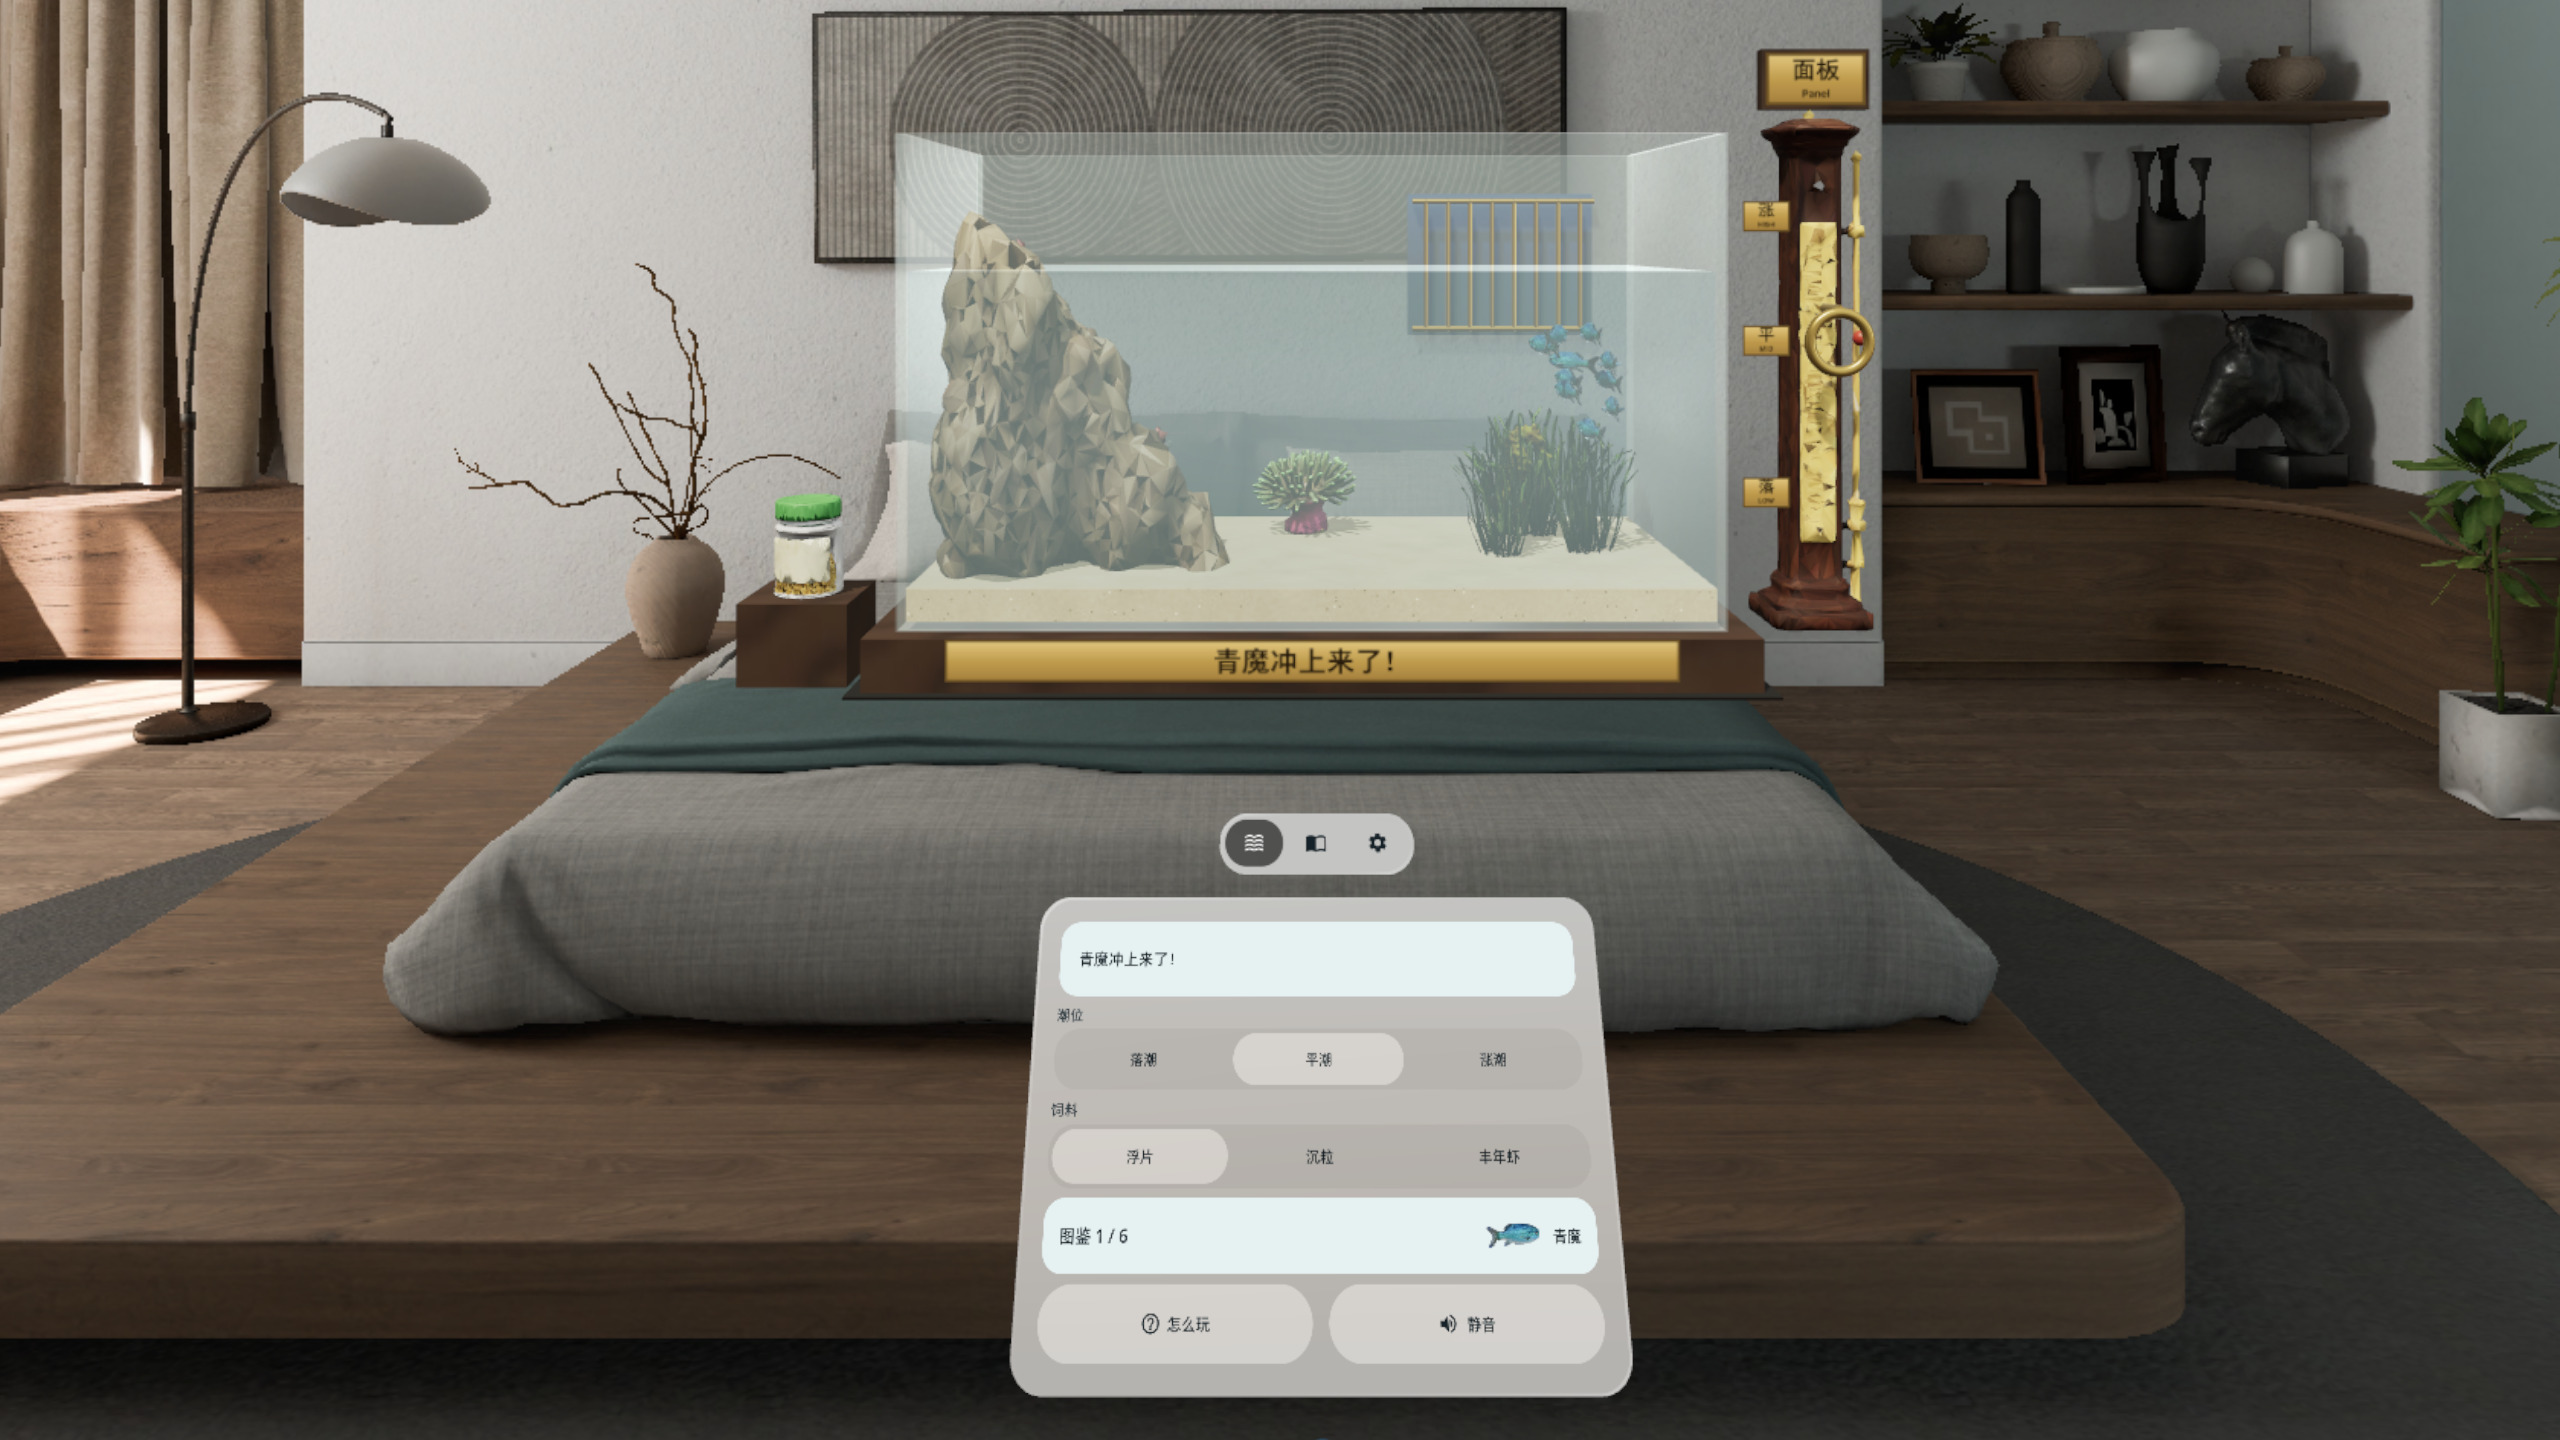
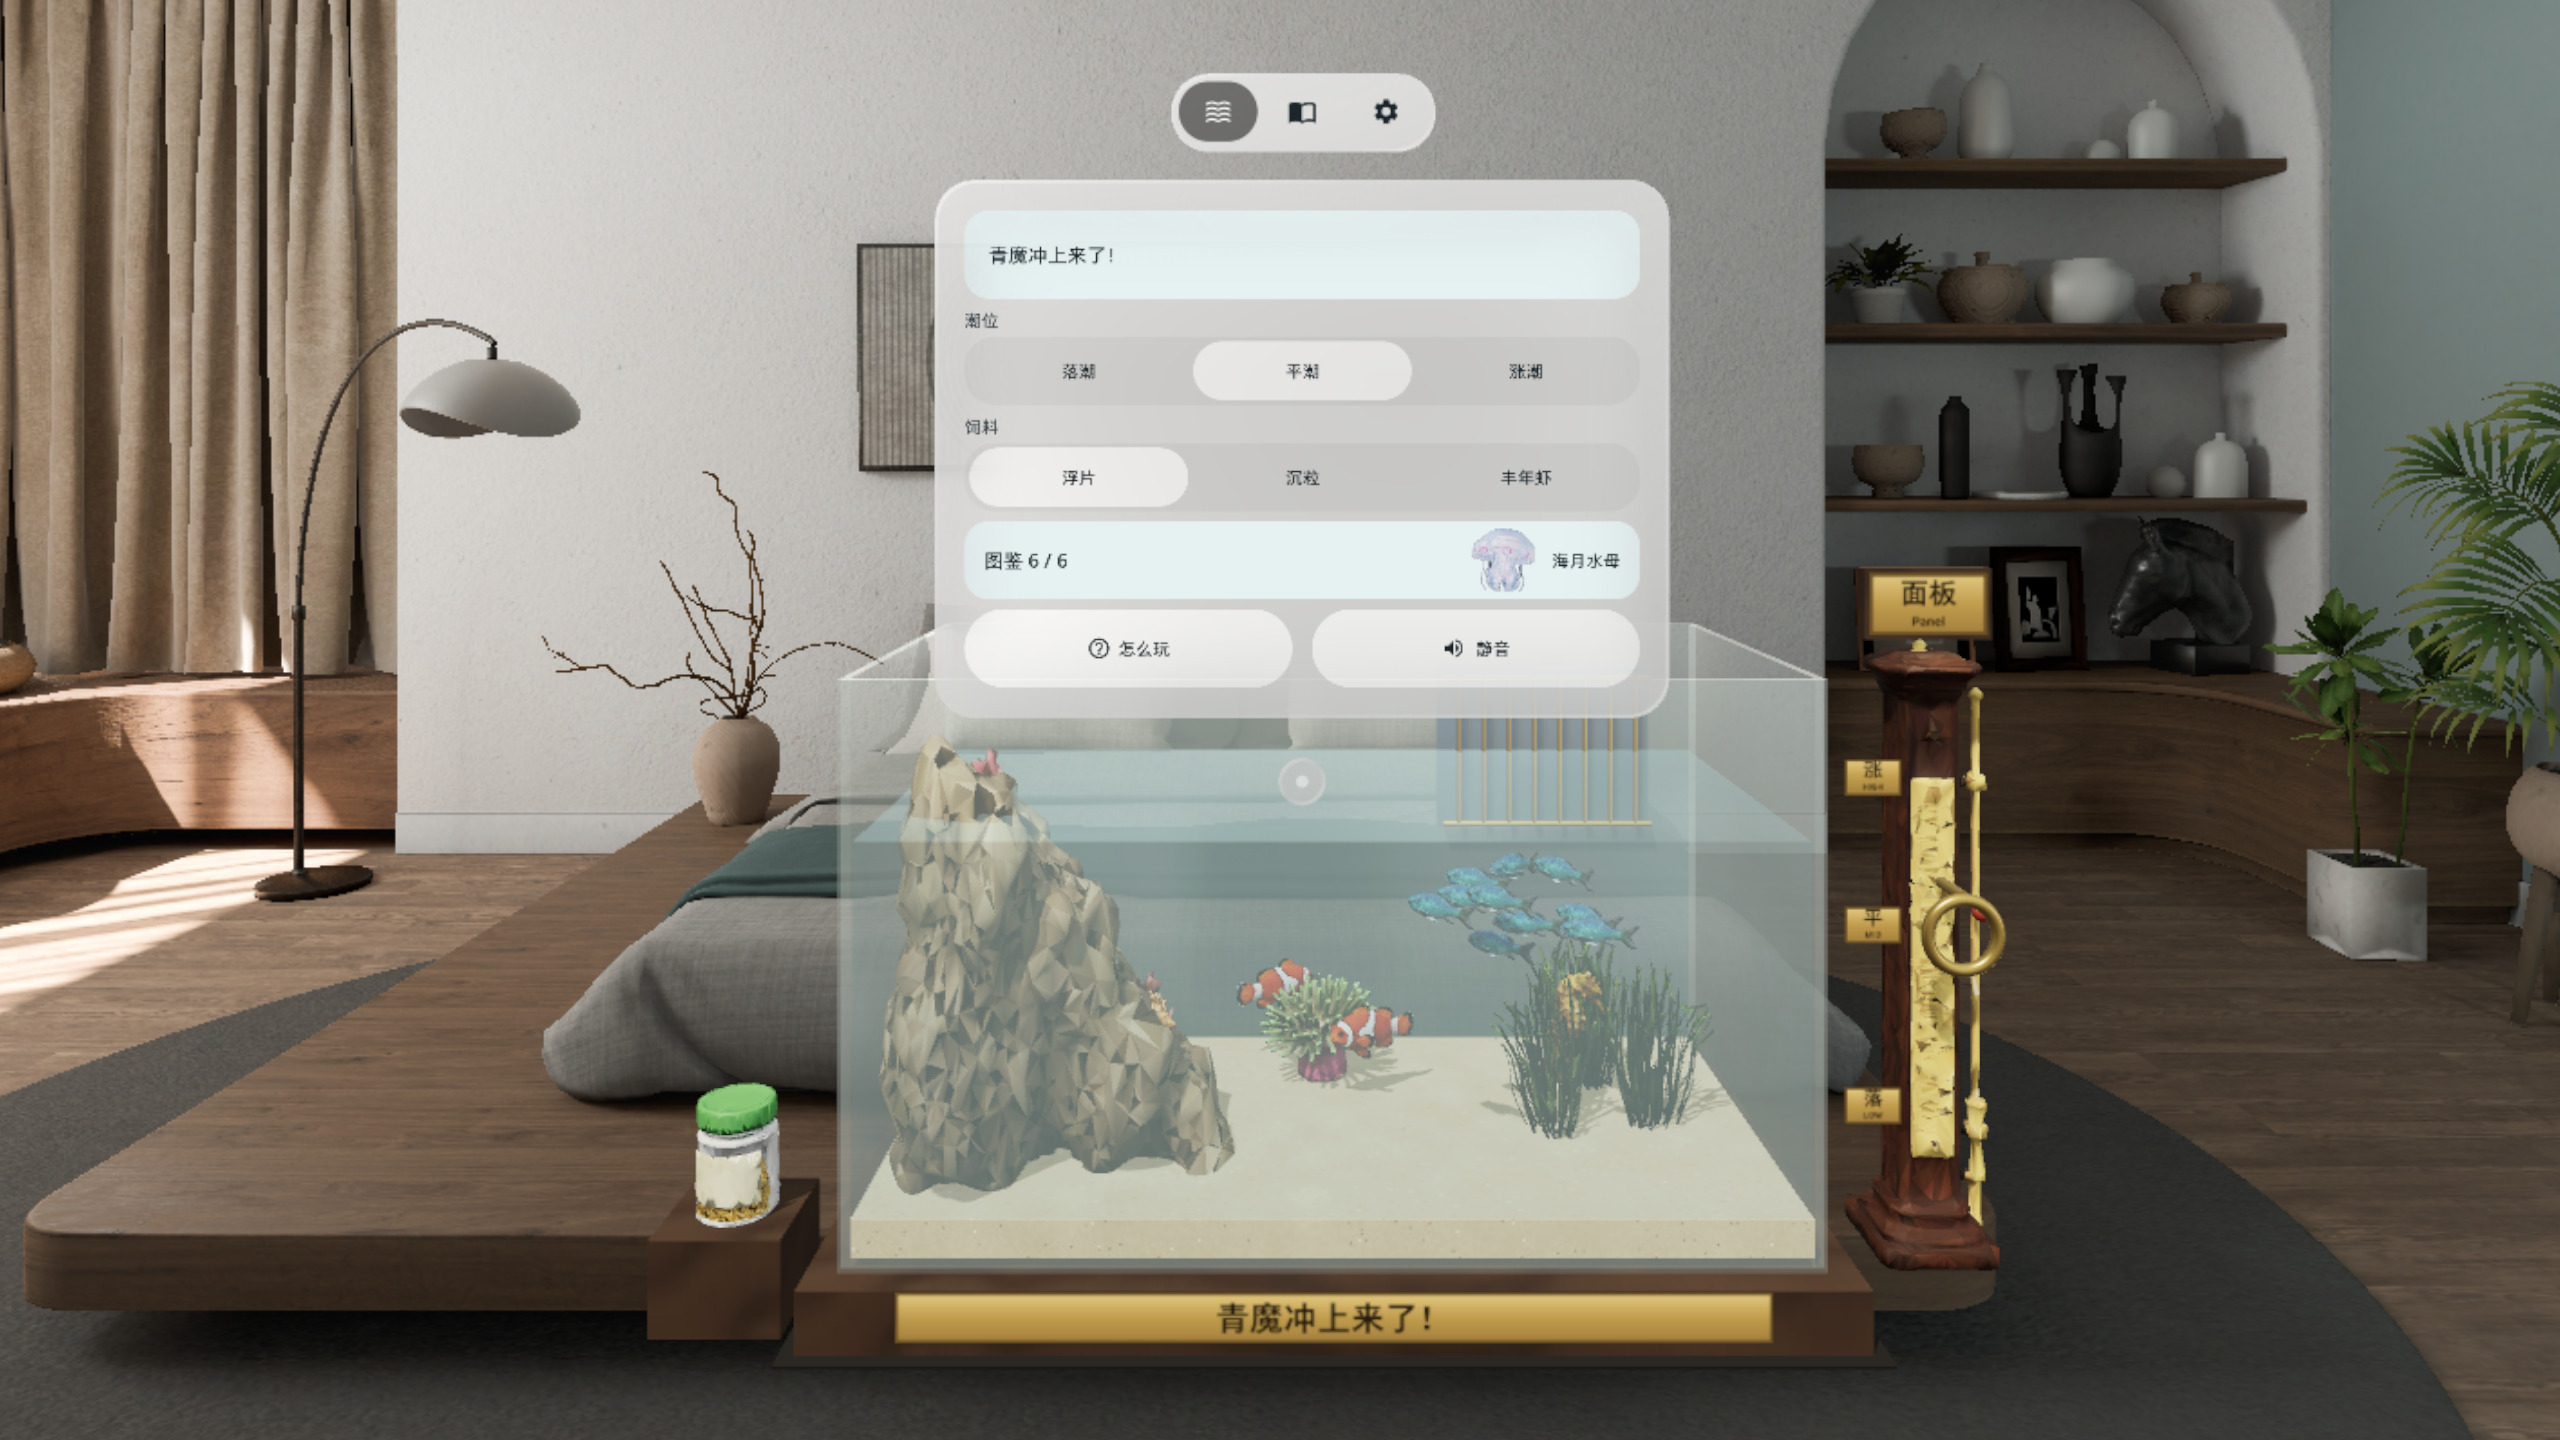
Docs v0.1.4: bilingual README, known issues, v0.1.4 screenshots and posters

diff --git a/README.md b/README.md
@@ -6,75 +6,76 @@
 
 ## 中文
 
-桌上一只海水缸，v0.1.3 起在 PICO OS 6 的 Full Space（混合现实 Stage）里摆在你正前方、控制窗下面。碰到饲料罐按 grip 或扳机拿起来（远处用手柄射线或眼手指着按一下也行），松手它还跟着你的手；移到水面上翻手腕就倒饲料，再按一次放回罐墩，鱼群追着抢；也可以直接点沙底撒一小撮。拖黄铜潮位手柄（落 / 平 / 涨三档吸附）或点刻度牌换潮位：落潮礁石露出水面，涨满潮外海的闸门打开。换着饲料和潮位，把缸里藏着的 6 种海洋生物一个个引出来，图鉴记下见过的。
+一只海水缸摆在你正前方（PICO OS 6 Full Space，混合现实 Stage）：缸里有礁石、海葵、海草和一群青魔，缸边立着黄铜潮位柱，罐墩上放着饲料罐，控制窗在缸的上方。手或手柄碰到饲料罐按一下 grip / 扳机拿起来，松手也还在手里（远处用手柄射线或眼手指着按一下也行）；移到水面上翻手腕就倒饲料，转得越多撒得越多，再按一下放回罐墩；也可以直接点沙底撒一小撮。拖黄铜潮位手柄（落 / 平 / 涨三档吸附）或点刻度牌换潮位：落潮礁石露出水面，涨满潮外海的闸门打开。换着饲料和潮位，把缸里藏着的 6 种海洋生物一个个引出来，图鉴记下见过的。
 
-- 体积 1.19 × 0.78 × 0.64 m（缸 0.84 m 宽）+ 缸正下方的控制窗（600 × 440 dp，原生 TabBar：水缸 / 图鉴 / 设置）
+- 缸心离眼 0.88 m、缸沿在眼下 0.14 m，站着坐着平视都能看到整只缸；控制窗 600 × 440 dp，原生 TabBar：水缸 / 图鉴 / 设置
 - 三种饲料（浮片 / 沉粒 / 丰年虾）、三档潮位；青魔、小丑鱼、寄居蟹、海马、蓝吊、海月水母各有出场条件
-- 手势捏合、眼动 + 捏合、手柄射线；静音、三档音量、水泵声、减少动态、重开控制窗、重置、退出
-- 中英双语，全部本机运行，不联网、不需要账号
+- 手势捏合、眼动 + 捏合、手柄射线；设置里 [叫回面前]，摇杆左右转缸
+- 静音、三档音量、水泵声、减少动态、重置、退出；中英双语，全部本机运行，不联网、不需要账号
 
 | | |
 |---|---|
-| ![六个都见到了](docs/shot-01.jpg) 六个都见到了，图鉴 6/6 | ![拿起饲料罐](docs/shot-02.jpg) 拿起饲料罐，虚线标出落点 |
-| ![撒浮片](docs/shot-03.jpg) 撒浮片，青魔冲上来抢食 | ![落潮](docs/shot-04.jpg) 平潮 → 落潮，礁石露出水面 |
-| ![小丑鱼](docs/shot-05.jpg) 往海葵边撒沉粒，小丑鱼出来了 | ![图鉴详情](docs/shot-06.jpg) 图鉴详情：海马 |
+| ![六个都见到了](docs/shot-01.jpg) 六个都见到了，图鉴 6/6 | ![拿起饲料罐](docs/shot-02.jpg) 拿起饲料罐，旁边是「翻手倒食物」提示卡 |
+| ![撒浮片](docs/shot-03.jpg) 撒浮片，青魔冲上来抢食 | ![落潮](docs/shot-04.jpg) 落潮，礁石露出水面 |
+| ![图鉴](docs/shot-05.jpg) 图鉴：六种生物和出场条件 | ![图鉴详情](docs/shot-06.jpg) 图鉴详情：海马 |
 
-截图来自 PICO 模拟器（v0.1.2，QA #3）。演示视频是模拟器调试指令驱动的录屏，**非真实手势录像**，没有声音。
+截图来自 PICO 模拟器（v0.1.4）。演示视频是模拟器调试指令驱动的录屏，**非真实手势录像**，没有声音。
 
 ### 安装
 
-从 [Release v0.1.2](https://github.com/kejing-dev/TideTank/releases/tag/v0.1.2) 下载 `TideTank-v0.1.2.apk`（`assembleRelease` 未签名包，供 Vibe Lab 平台签名；自己装到头显请用本地 `./gradlew assembleDebug` 的包）：
+从 [Release v0.1.4](https://github.com/kejing-dev/TideTank/releases/tag/v0.1.4) 下载 `TideTank-v0.1.4.apk`（`assembleRelease` 未签名包，供 Vibe Lab 平台签名；自己装到头显请用本地 `./gradlew assembleDebug` 的包）：
 
 ```
-adb install -r TideTank-v0.1.2.apk
+adb install -r TideTank-v0.1.4.apk
 pico-cli app launch io.embodit.tidetank
 ```
 
 ### 已知问题
 
-- 控制窗在缸下方，窗中心在视线下约 30°（系统摆位限制）
-- 坐着打开时系统仍按站姿高度摆缸，缸心在视线上方约 13°
-- 模拟器上换应用后的第一次冷启动偶尔要 8–21 秒（之后约 1 秒，判断为模拟器预热；头显未测）
+- 在缸口中间倒食时，控制窗会挡住罐子和提示卡；把罐子移到缸口右侧靠边倒能看到
+- 手直接拿罐要伸直手臂、身体略前倾（罐墩离肩约 0.8 m）；够不着可以用手柄射线或眼手远程拿
+- 演示视频是模拟器调试指令驱动的录屏，非真实手势录像，没有声音
 
 ## English
 
-A reef tank in front of you, in PICO OS 6 Full Space (a Mixed Stage, since v0.1.3). Touch the food jar and press grip or
-trigger to pick it up (or point the controller ray / eye-hand at it and press once); it stays with your hand when you let
-go. Turn your wrist over the water to pour, press again to put it back. Food trails down while
-the school chases it, or tap the sand for a pinch. Drag the brass tide handle (snaps to low / mid / high) or tap a gauge
-plate: low tide bares the rocks, high tide opens the sea gate. Mix food and tide to coax out six hidden creatures and fill
-the guide.
+A reef tank right in front of you (PICO OS 6 Full Space, a Mixed Stage): rocks, an anemone, seagrass, a school of chromis,
+a brass tide post and a food jar, with the control window above the tank. Touch the jar and press grip or trigger to pick it
+up (or point the controller ray / eye-hand at it and press once); it stays in your hand when you let go. Turn your wrist over
+the water to pour (more turn, more food), press again to put it back, or tap the sand for a pinch. Drag the brass tide handle
+(snaps to low / mid / high) or tap a gauge plate: low tide bares the rocks, high tide opens the sea gate. Mix food and tide to
+coax out six hidden creatures and fill the guide.
 
-- Volume 1.19 x 0.78 x 0.64 m (tank 0.84 m wide) + a control window right under the tank (600 x 440 dp, native TabBar:
-  Tank / Guide / Settings)
+- Tank centre 0.88 m from the eye, rim 0.14 m under it: the whole tank is in view standing or seated; control window
+  600 x 440 dp with a native TabBar (Tank / Guide / Settings)
 - Three foods (flakes / pellets / brine shrimp), three tides; chromis, clownfish, hermit crab, seahorse, blue tang and moon
   jelly each have their own conditions
-- Hand pinch, gaze + pinch, controller ray; mute, volume, pump hum, reduce motion, reopen controls, reset, quit
-- Chinese and English; fully offline, no account
+- Hand pinch, gaze + pinch, controller ray; Bring it back here; thumbstick turns the tank
+- Mute, volume, pump hum, reduce motion, reset, quit; Chinese and English; fully offline, no account
 
 | | |
 |---|---|
-| ![All six found](docs/shot-en-01.jpg) All six found | ![Mid tide](docs/shot-en-02.jpg) Mid tide, controls under the tank |
-| ![All found card](docs/shot-en-03.jpg) All-found card | ![Settings](docs/shot-en-04.jpg) Settings |
+| ![All six found](docs/shot-en-01.jpg) All six found | ![Jar picked up](docs/shot-en-02.jpg) The jar picked up, with its tip |
+| ![Guide](docs/shot-en-03.jpg) The guide | ![Settings](docs/shot-en-04.jpg) Settings |
 
-Screenshots are from the PICO emulator (v0.1.2). The demo video is driven by emulator debug input: **not a recording of
+Screenshots are from the PICO emulator (v0.1.4). The demo video is driven by emulator debug input: **not a recording of
 real hand gestures**, and silent.
 
 ### Install
 
-Download `TideTank-v0.1.2.apk` from [Release v0.1.2](https://github.com/kejing-dev/TideTank/releases/tag/v0.1.2) (unsigned
+Download `TideTank-v0.1.4.apk` from [Release v0.1.4](https://github.com/kejing-dev/TideTank/releases/tag/v0.1.4) (unsigned
 `assembleRelease` build for platform signing; for your own headset build `./gradlew assembleDebug`):
 
 ```
-adb install -r TideTank-v0.1.2.apk
+adb install -r TideTank-v0.1.4.apk
 pico-cli app launch io.embodit.tidetank
 ```
 
 ### Known issues
 
-- The control window sits under the tank, its centre about 30 deg below eye level (system placement)
-- Opened seated, the tank is still placed at standing height (centre about 13 deg above the eyes)
-- On the emulator the first cold start after switching apps can take 8-21 s (about 1 s afterwards; not measured on a headset)
+- Pouring over the middle of the tank, the control window hides the jar and its tip; pour near the right edge to see it
+- Picking the jar up by hand needs a straight arm and a slight lean (about 0.8 m from the shoulder); the ray or eye-hand
+  works from anywhere
+- The demo video is driven by emulator debug input, not real hands, and is silent
 
 ## Build / credits
 

diff --git a/CHANGELOG.md b/CHANGELOG.md
@@ -6,6 +6,7 @@
 - 缸往远、往高挪：缸心离眼 0.88 m（原 0.70），缸沿在眼下 0.14 m（原 0.24）；底座、木柱、罐墩、罐子跟着一起动
 - 站着、坐着平视都能看到整只缸、底座、木柱和罐墩上的罐子（每个包围盒 8 个角的投影角都在 ±39° 内，单测）
 - 其余不变
+- 已知问题（用户 2026-11-17 真机看过后放行）：在缸口中间倒食时控制窗会挡住罐子和提示卡（QA #5 q5-1，移到缸口右侧靠边倒能看到）；手直接拿罐要伸直手臂、身体略前倾（罐墩离肩约 0.8 m，可改用射线 / 眼手）；演示视频是模拟器调试指令驱动的录屏，非真实手势录像，没有声音
 
 English:
 - The tank moved farther and higher: centre 0.88 m from the eye (was 0.70), rim 0.14 m under the eye (was 0.24); the
@@ -13,6 +14,10 @@ English:
 - Standing or seated, looking level, the whole tank, base, post and the jar on its pedestal are in view (all 8 corners of
   every box project within +-39 deg, unit-tested)
 - Nothing else changed
+- Known issues (released after a headset check on 2026-11-17): pouring over the middle of the tank, the control window
+  hides the jar and its tip (QA #5 q5-1; pour near the right edge to see it); picking the jar up by hand needs a straight
+  arm and a slight lean (about 0.8 m from the shoulder; the ray / eye-hand works too); the demo video is driven by emulator
+  debug input, not real hands, and is silent
 
 ## v0.1.3 · 2026-11-16 (gate C · the jar is a toggle, Full Space)
 
